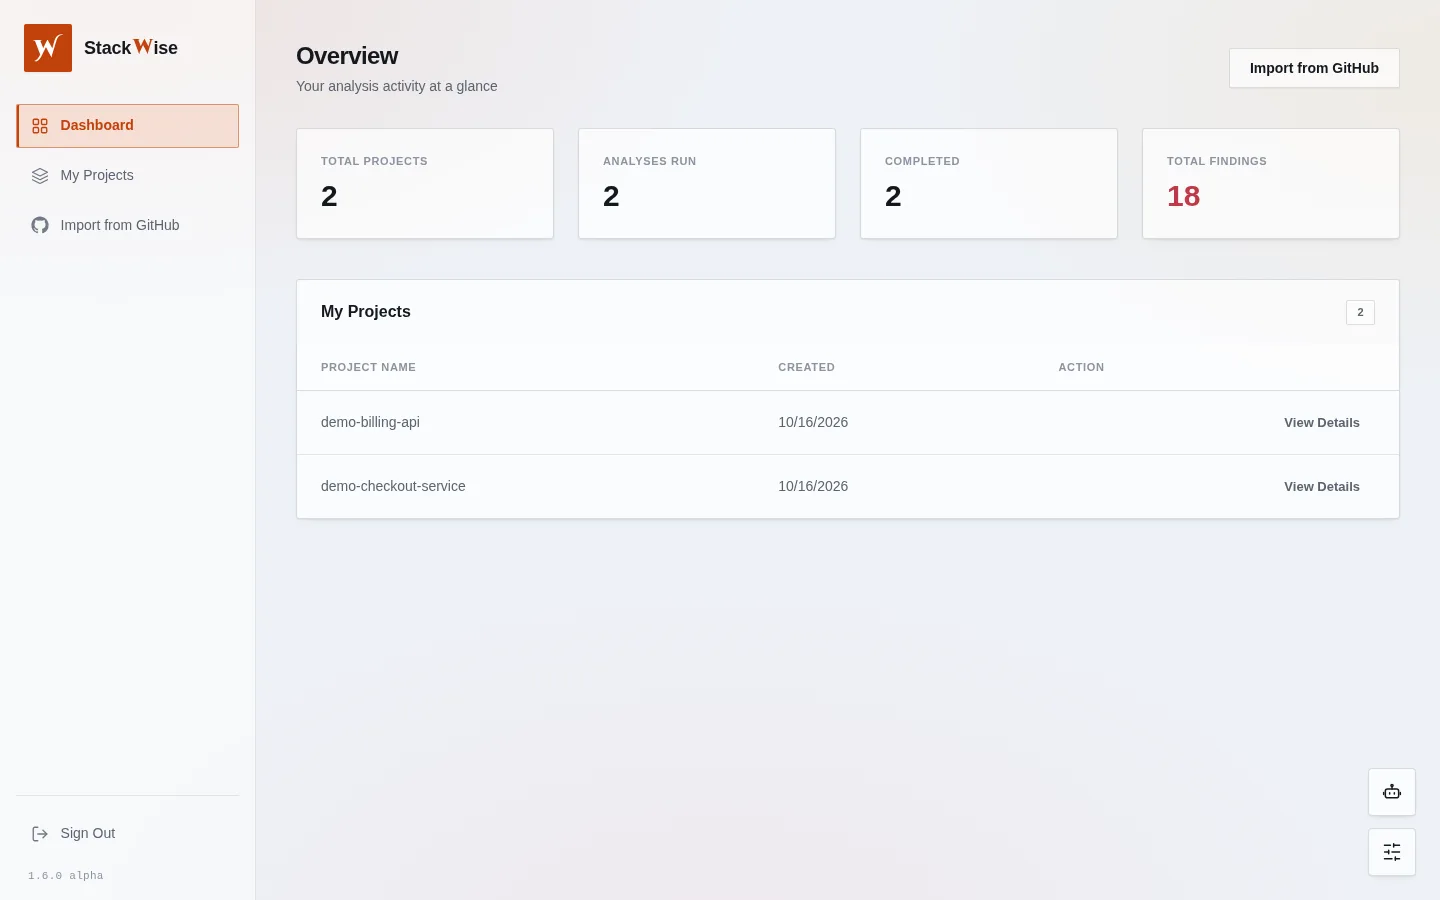
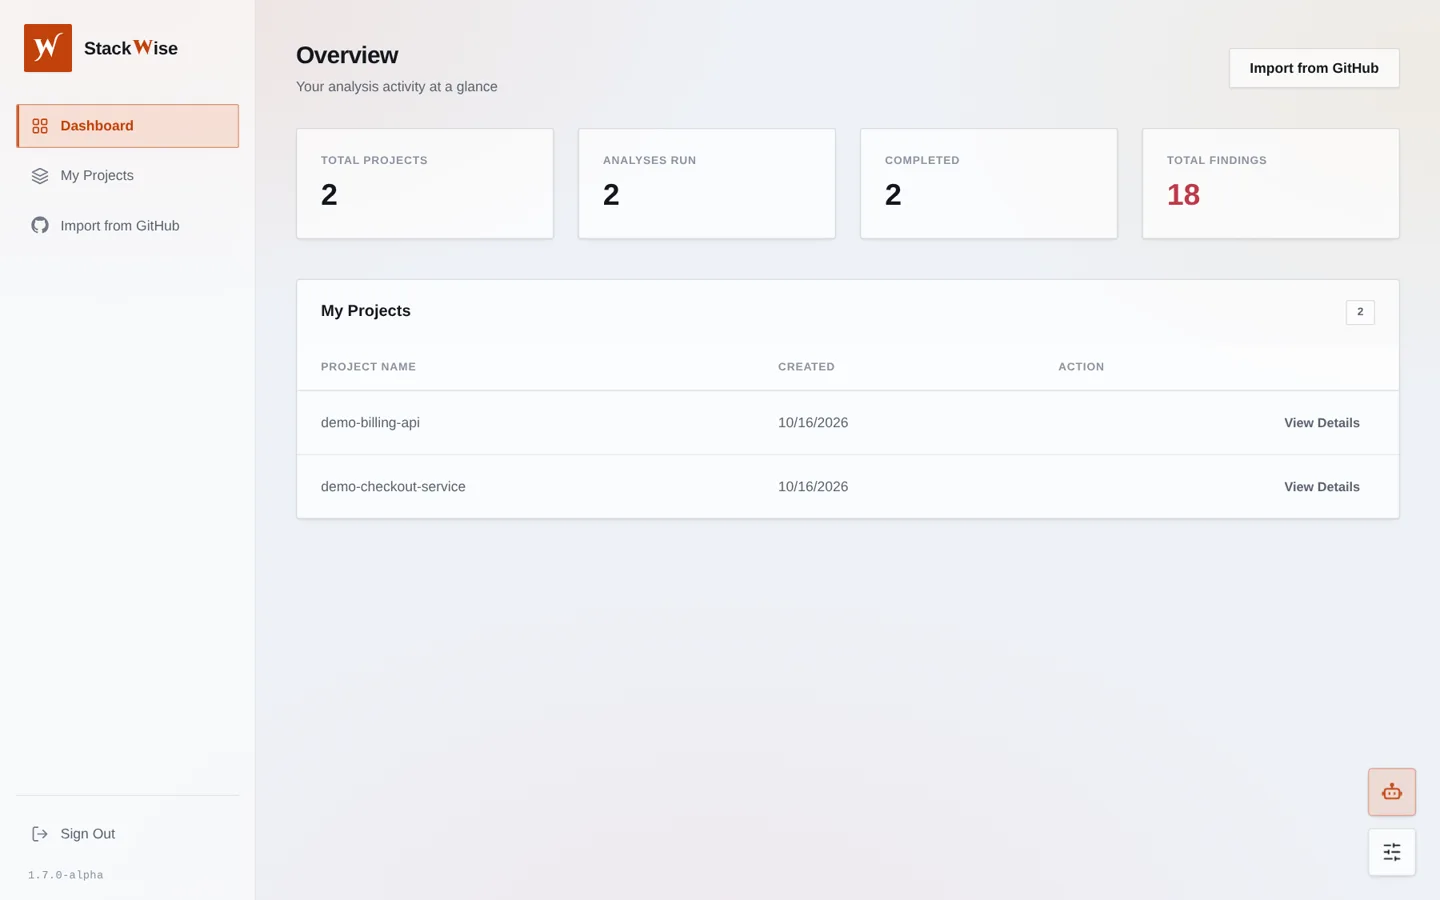
Frontend and Backend bug fixes

diff --git a/frontend/src/config.ts b/frontend/src/config.ts
@@ -8,7 +8,7 @@ export const APP_NAME = 'Stackwise';
  * Keep it in sync with `package.json` and the API's `APP_VERSION` setting — the
  * three are bumped together.
  */
-export const APP_VERSION = '1.6.0 alpha';
+export const APP_VERSION = '1.7.0-alpha';
 
 /**
  * Destination of the "Contact" row in the settings drawer. Replace with the

diff --git a/app/core/config.py b/app/core/config.py
@@ -16,7 +16,7 @@ class Settings(BaseSettings):
     API_V1_STR: str = "/api/v1"
     # Release tag: keep in sync with `frontend/package.json` and
     # `frontend/src/config.ts` (the version badge).
-    APP_VERSION: str = "1.6.0-alpha"
+    APP_VERSION: str = "1.7.0-alpha"
 
     # Deployment database. Present for docker-compose/Vercel parity; the async
     # engine below connects through `SQLALCHEMY_URL` (see app/db/session.py).

diff --git a/README.md b/README.md
@@ -1,6 +1,6 @@
 # Stackwise
 
-![version](https://img.shields.io/badge/version-1.6.0--alpha-c2410c)
+![version](https://img.shields.io/badge/version-1.7.0--alpha-c2410c)
 ![status](https://img.shields.io/badge/status-pre--release-a16207)
 ![backend](https://img.shields.io/badge/backend-FastAPI-2563a8)
 ![frontend](https://img.shields.io/badge/frontend-React%20%2B%20TypeScript-2563a8)
@@ -394,7 +394,7 @@ Stackwise/
 │       ├── i18n/           dictionary (en/es) + provider
 │       └── index.css       design tokens + .sw-* classes, and the small-screen/safe-area layer
 ├── docs/                   API_CONTRACT.md, ANALYSIS_ENGINE.md, preview captures
-├── tests/                  pytest + httpx ASGI suite (260 tests)
+├── tests/                  pytest + httpx ASGI suite (271 tests)
 ├── PROGRESS_REPORT.json    the working log: changes, verifications, open items
 └── alembic/                baseline schema revision
 ```
@@ -760,11 +760,33 @@ What the code does, and what a deployment still has to get right:
 
 ## Versioning
 
-Pre-1.0, so the version is an **alpha pre-release** tag. It lives in `APP_VERSION`
+An **alpha pre-release**, so the version carries a pre-release tag. It lives in `APP_VERSION`
 (`app/core/config.py`, used by the FastAPI metadata and both health endpoints),
 `frontend/package.json`, and `frontend/src/config.ts`, which renders it in the badge every screen
 shows. The analysis engine has its own `ENGINE_VERSION` because it can change shape without the
 application version moving; it is recorded on every run.
+
+### 1.7.0-alpha
+
+- **One way in: the repository import.** The local ZIP upload is gone end to end. `POST /projects`
+  (manual creation) and `POST /projects/{id}/analyses` (multipart upload) no longer exist, and with
+  them went the upload-only plumbing — the spooling and configuration-parsing helpers,
+  `inspect_archive`, the `ProjectCreate` schema, the `zip` default on a run's provenance. A project
+  is now created only by importing a GitHub repository (`POST /projects/from-repo`), whose snapshot
+  is downloaded with the caller's own token and analysed in the background, so a project never exists
+  without a repository or without its first run.
+- **The SPA loses the local path too.** The "New Project" page, the ZIP picker and the run's source
+  badge are gone; the repository import (`/projects/import`) is the single entry point, and every run
+  the app can create reports `source_type: "github"` (the history filter still accepts the legacy
+  `zip` value so old rows remain selectable).
+- **Archive validation follows the one intake left.** A snapshot is validated when it is extracted,
+  not before the run exists, so a hostile one fails its run; the traversal, symlink/FIFO, bomb, depth
+  and size rejections are covered against `extract_archive`. The multipart body limit went with the
+  upload, so the request-body ceiling guards JSON bodies only.
+- **Constraint note for operators**: because a run is now created together with its project, a
+  project never holds two in-flight runs, so `ANALYSIS_MAX_ACTIVE_RUNS_PER_PROJECT` can no longer
+  bind. It stays as the documented platform ceiling (removing the setting would break any `.env` that
+  sets it); the per-user ceiling is the one the import enforces.
 
 ### 1.6.0-alpha
 
@@ -781,11 +803,6 @@ application version moving; it is recorded on every run.
 - **Security**: the agent's error reasons are now scrubbed of the app's own secrets *by value* as well
   as by shape (`redact_with_values`), because a Cloudflare API token is forty unremarkable characters
   that no pattern can recognise. A test that streams a failure through the endpoint is what found it.
-- **One way in.** The local ZIP upload is gone end to end: `POST /projects` and
-  `POST /projects/{id}/analyses` no longer exist, the "New Project" page and the upload form were
-  removed from the SPA, and a project is now created only by importing a GitHub repository
-  (`POST /projects/from-repo`), whose snapshot is downloaded with the caller's own token and analysed
-  in the background.
 
 ### 1.5.0-alpha
 
